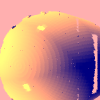
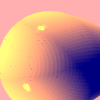
3ddda finaly works

diff --git a/src/Acc/VoxelPathIterator.java b/src/Acc/VoxelPathIterator.java
@@ -14,8 +14,9 @@ public class VoxelPathIterator implements Iterator<Voxel>{
     Ray ray ; 
     double tx , ty , tz ; 
     Double3 delta  ; 
-    Point currentIndex ; 
-    
+    boolean haveFirst = false ;
+    boolean first = true ;  
+    int i , j , k ; 
     VoxelPathIterator(Grid grid , Ray ray ){ //set up ;)
         this.grid = grid ; 
         this.ray = ray ; 
@@ -26,91 +27,92 @@ public class VoxelPathIterator implements Iterator<Voxel>{
             , Math.abs(grid.getLength() / ray.getDir().getZ())
             );
         Double3 startIndex = grid.findFirstVoxel(ray);
-        this.currentIndex = grid.fromIndex(startIndex) ; 
+        if(startIndex == null ){
+            return ; 
+        }
+        this.haveFirst = true ;
+        i = (int)startIndex.d1 ;
+        j = (int)startIndex.d2 ;
+        k=(int)startIndex.d3 ; 
+
         Vector dir = ray.getDir();
         double dirX = ray.getDir().getX() , dirY = dir.getY() , dirZ = dir.getZ() ;  
-        this.tx = dirX < 0 ?  startIndex.d1 * grid.getLength() -rayOrigin.getX() 
+        this.tx = dirX == 0 ? Double.POSITIVE_INFINITY  :
+        dirX < 0 ?  startIndex.d1 * grid.getLength() -rayOrigin.getX() 
          :  (startIndex.d1+1) * grid.getLength() -rayOrigin.getX() ;
-         this.ty = dirY < 0 ?  startIndex.d2 * grid.getLength() -rayOrigin.getY() 
+         this.ty = dirY == 0 ? Double.POSITIVE_INFINITY :  
+         dirY < 0 ?  startIndex.d2 * grid.getLength() -rayOrigin.getY() 
          :  (startIndex.d2+1) * grid.getLength() -rayOrigin.getY() ;
-         this.tz = dirZ < 0 ?  startIndex.d3 * grid.getLength() -rayOrigin.getZ() 
+         this.tz =dirZ == 0 ?  Double.POSITIVE_INFINITY :
+          dirZ < 0 ?  startIndex.d3 * grid.getLength() -rayOrigin.getZ() 
          :  (startIndex.d3+1) * grid.getLength() -rayOrigin.getZ() ;
-        this.tx = tx / dirX ; 
+        
+         this.tx = tx / dirX ; 
         this.ty = ty / dirY ; 
         this.tz = tz / dirZ  ;   
+        
 
 
 
     }
-
-
-    private Voxel UpdateCurrent(double currentIndexXtmp , double currentIndexYtmp, double currentIndexZtmp ){
-        Double3 inx = grid.toIndex(this.currentIndex); 
-        if(inx == null){
-            return null ;
-        }
-        Voxel vx = grid.getVoxel(inx) ;
-         currentIndex = new Point(currentIndexXtmp,currentIndexYtmp,currentIndexZtmp);
-   
-        return vx;
-    }
-
-
 
     @Override
     public boolean hasNext() {
-        if(currentIndex == null){
+        if(!this.haveFirst){
             return false ;
-        } 
-        Point min = grid.getMin() , max = grid.getMax() ; 
+        }
+        int size = grid.getSize() ; 
         return !(
-        currentIndex.getX() < min.getX() || 
-        currentIndex.getX() > max.getX() || 
-        currentIndex.getZ()< min.getZ() || 
-        currentIndex.getZ()  > max.getZ() || 
-        currentIndex.getY() < min.getY() || 
-        currentIndex.getY() > max.getY() );
+            k < 0 || k >= size || 
+            i < 0 || i >= size ||
+            j< 0 || j >= size );
     }
 
     @Override
     public Voxel next() {
-        Point min = grid.getMin() , max = grid.getMax() ; 
-        double currentIndexXtmp = currentIndex.getX(),currentIndexYtmp=currentIndex.getY() ,currentIndexZtmp = currentIndex.getZ() ;
-			
+        if(first){
+            first = false ;
+            return grid.getVoxel(i,j,k);
+        }
+		int size = grid.getSize() ; 
         if (tx < ty) {
 				if (tx < tz) {
-					tx += delta.d1;
-					currentIndexXtmp += ray.getDir().getX() < 0 ? -1 : 1;
-					if (currentIndexXtmp < min.getX() || currentIndexXtmp > max.getX() ){
-                        return UpdateCurrent(currentIndexXtmp, currentIndexYtmp, currentIndexZtmp);
+                    int stepX =  ray.getDir().getX() < 0 ? -1 : 1;
+                    this.i  +=stepX ; 
+                    if(i < 0 || i >= size ){
+                        return null ;
                     }
+                    tx += delta.d1;
 				} else {
-					tz += delta.d3;
-					currentIndexZtmp += ray.getDir().getZ() < 0 ? -1 : 1;
-					if (currentIndexZtmp < min.getZ() || currentIndexZtmp > max.getZ()){
-                        return UpdateCurrent(currentIndexXtmp, currentIndexYtmp, currentIndexZtmp);
+                    int stepZ =  ray.getDir().getZ() < 0 ? -1 : 1;
+                    k += stepZ ; 
+                    if(k < 0 || k >= size ){
+                        return null ;
                     }
+					tz += delta.d3;
 				}
 			} 
             
         else {
 			if (ty< tz) {
-				ty += delta.d2;
-				currentIndexYtmp += ray.getDir().getY() < 0 ? -1 : 1;
-				if (currentIndexYtmp < min.getY() || currentIndexYtmp > max.getY()){
-                    return UpdateCurrent(currentIndexXtmp, currentIndexYtmp, currentIndexZtmp);
+                int stepY = ray.getDir().getY() < 0 ? -1 : 1;
+                j += stepY ; 
+				if(j< 0 || j >= size ){
+                    return null;
                 }
+                ty += delta.d2;
 			} 
             else {
-				tz  += delta.d3;
-				currentIndexZtmp+= ray.getDir().getZ() < 0 ? -1 : 1;
-                if (currentIndexZtmp < min.getZ() || currentIndexZtmp > max.getZ()){
-                    return UpdateCurrent(currentIndexXtmp, currentIndexYtmp, currentIndexZtmp);
+                int stepZ =  ray.getDir().getZ() < 0 ? -1 : 1;
+                k += stepZ ; 
+                if(k < 0 || k >= size ){
+                    return null;
                 }
+                tz += delta.d3;
 			}
 		}
 
-        return UpdateCurrent(currentIndexXtmp, currentIndexYtmp, currentIndexZtmp );
+        return grid.getVoxel(i,j,k) ;
 
       
     }

diff --git a/src/Acc/Grid.java b/src/Acc/Grid.java
@@ -30,45 +30,45 @@ public class Grid {
     //TESTED 
     public Grid(List<Voxelable> objects ,int size ){
         MaxMin minMaxTotal =null  ; 
+        double maxXT = 0  , maxYT =0  , maxZT =0  , minXT =0  , minYT =0 , minZT = 0 ; 
+
         for(Voxelable object : objects){
                 MaxMin  minMaxLocal = object.getMaxMin() ; 
                 if(minMaxTotal == null){   
-                    minMaxTotal = minMaxLocal ; 
+                    Point min = minMaxLocal.min , max = minMaxLocal.max ;
+                    minXT = min.getX() ; 
+                    minYT = min.getY() ; 
+                    minZT = min.getZ();
+                    maxXT = max.getX() ; 
+                    maxYT = max.getY() ; 
+                    maxZT = max.getZ() ;  
+                    continue ;
                 }
                 else{
-                    double minx =minMaxTotal.min.getX()  , miny = minMaxTotal.min.getY() ,minz = minMaxTotal.min.getZ() ,
-                     maxx = minMaxTotal.max.getX() , maxy = minMaxTotal.max.getY() , maxz = minMaxTotal.max.getZ() ; 
-                    boolean changed =false ;  
-                    if(minMaxLocal.max.getX() > minMaxTotal.max.getX()){
-                        maxx = minMaxLocal.max.getX() ; 
-                        changed = true ;    
+                   
+                  
+                    if(minMaxLocal.max.getX() > maxXT){
+                        maxXT = minMaxLocal.max.getX() ;   
                     }
-                    if(minMaxLocal.max.getY() > minMaxTotal.max.getY()){
-                        maxy = minMaxLocal.max.getY() ; 
-                        changed = true ;    
+                    if(minMaxLocal.max.getY() > maxYT){
+                        maxYT = minMaxLocal.max.getY() ;     
                     }
-                    if(minMaxLocal.max.getZ() > minMaxTotal.max.getZ()){
-                        maxz = minMaxLocal.max.getZ() ; 
-                        changed = true ;    
+                    if(minMaxLocal.max.getZ() >maxZT){
+                        maxZT = minMaxLocal.max.getZ() ;  
                     }
-                    if(minMaxLocal.min.getX() < minMaxTotal.min.getX()){
-                        minx = minMaxLocal.min.getX() ; 
-                        changed = true ;    
+                    if(minMaxLocal.min.getX() < minXT){
+                        minXT = minMaxLocal.min.getX() ;    
                     }
-                    if(minMaxLocal.min.getY() < minMaxTotal.min.getY()){
-                        miny = minMaxLocal.min.getY() ; 
-                        changed = true ;    
+                    if(minMaxLocal.min.getY() < minYT){
+                        minYT = minMaxLocal.min.getY() ;   
                     }
-                    if(minMaxLocal.min.getZ() < minMaxTotal.min.getZ()){
-                        minz= minMaxLocal.min.getZ() ; 
-                        changed = true ;    
+                    if(minMaxLocal.min.getZ() <minZT){
+                        minZT= minMaxLocal.min.getZ() ; 
                     }
-                    if(changed){
-                        minMaxTotal = new MaxMin(minx ,miny ,minz ,maxx, maxy , maxz );
-                    }
+           
                 }
             }
-         
+    minMaxTotal = new MaxMin(minXT ,minYT ,minZT ,maxXT, maxYT , maxZT );
         if(minMaxTotal == null){
             throw new IllegalAccessError("cant create grid");  
         }

diff --git a/src/unittests/AccTests/AccTest.java b/src/unittests/AccTests/AccTest.java
@@ -17,6 +17,8 @@ import static org.junit.jupiter.api.Assertions.assertTrue;
 
 import java.io.FileNotFoundException;
 import java.io.IOException;
+import java.time.Duration;
+import java.time.Instant;
 import java.util.List;
 
 import com.mokiat.data.front.parser.OBJModel;
@@ -302,7 +304,38 @@ public class AccTest {
 
 	}
 
+	@Test
+	public void MonsterFace() throws FileNotFoundException, IOException {
+		Instant start = Instant.now();
+			Scene scene1 = new Scene("Test scene").setBg(new Color(255,255,255));
+			Camera camera1 = new Camera(new Point(50, -50, 1000), new Vector(0, 0, -1), new Vector(0, 1, 0)) //
+					.setVPSize(150, 150) //
+					.setVPDistance(350);
+			scene1.lights.add(new PointLight(new Point(20, -30, 20),new Color(555,555,0)).setKL(0.001).setKQ(0.0002));
+			ImageWriter imageWriter = new ImageWriter("Porche", 100, 100);
+			ObjParser modelObjParser = new ObjParser("/Users/idang/Downloads/Porsche_911_GT2.obj") ;
+			ObjParserModel obj = modelObjParser.getObjParserModel().scale(100).rotate(30, new Vector(0,1,0));
+			scene1.geometries.add(obj.getRandomColoredTriangles(new Double3(0.5), new Double3(0.5), new Double3(0.3),new Double3(0.9), 300));
+			RayTracerBasic trc = new RayTracerBasic(scene1); 
+			//System.out.println("try 1: ");
+	
+			//System.out.println(trc.getGrid().getSize());
+	
+			// CODE HERE        
 
+		
+
+			camera1 =camera1.setWriter(imageWriter) //
+			.setRayTrace(trc) //
+			.renderImage(); 
+			Instant finish = Instant.now();
+			long timeElapsed = Duration.between(start, finish).toSeconds();
+			System.out.println(timeElapsed);
+			camera1.printGrid(5,  Color.BLACK);
+			camera1.writeToImage(); 
+
+		}
+      
 
 	
 

diff --git a/src/geometries/Triangle.java b/src/geometries/Triangle.java
@@ -39,20 +39,15 @@ try{
         Point C = this.vertices.get(2);     
         Vector CA = C.subtract(A);
         Vector BA = B.subtract(A);
-        Vector PA;
-        PA = P.subtract(A);
-        double capArea = CA.crossProduct(PA).lengthSquared();
+        Vector PA =P.subtract(A);
         double abcArea = CA.crossProduct(BA).lengthSquared();
-        double abpArea = BA.crossProduct(PA).lengthSquared();
-        double bcpArea;
-        bcpArea = (B.subtract(P)).crossProduct(C.subtract(P)).lengthSquared(); 
-        double uSquared = Util.alignZero(capArea / abcArea)  ; 
-        double vSquared = Util.alignZero(abpArea / abcArea )   ; 
-        double wSqaured =  Util.alignZero(bcpArea / abcArea)    ; 
+        double uSquared = Util.alignZero( CA.crossProduct(PA).lengthSquared() / abcArea)  ; 
+        double vSquared = Util.alignZero(BA.crossProduct(PA).lengthSquared() / abcArea )   ; 
+        double wSqaured =  Util.alignZero((B.subtract(P)).crossProduct(C.subtract(P)).lengthSquared() / abcArea)    ; 
         double u = Math.sqrt(uSquared);
         double v = Math.sqrt(vSquared);
         double w = Math.sqrt(wSqaured);
-        if( Util.alignZero(u-1) < 0  && Util.alignZero(v-1)< 0 &&Util.alignZero(w-1)< 0 && !Util.isZero(u) && !Util.isZero(v)  && !Util.isZero(w) &&  Util.isZero(w+v+u-1) ){
+        if( Util.alignZero(u-1) < 0  && Util.alignZero(v-1)< 0 &&Util.alignZero(w-1)< 0 &&  Util.isZero(w+v+u-1) ){
             GeoPoint pt = new Intersectable.GeoPoint(P,this);
             if(Util.alignZero(pt.point.distanceSquared(ray.getP0()) -max * max  ) <= 0 ){
                 return List.of(pt) ; 

diff --git a/src/unittests/renderer/ModelTests.java b/src/unittests/renderer/ModelTests.java
@@ -271,12 +271,12 @@ public void RifleModelTest() throws WFException, IOException {
         scene1.lights.add(new PointLight(new Point(20, -30, 20),new Color(555,555,0)).setKL(0.001).setKQ(0.0002));
         scene1.lights.add(new DirectionalLight(spCL, new Vector(1, -4, -0.5)));
         scene1.lights.add(new DirectionalLight(spCL, new Vector(1, 1, -0.5)));
-        ImageWriter imageWriter = new ImageWriter("RIFLEAFTER3DDDAAFT", 100, 100);
+        ImageWriter imageWriter = new ImageWriter("RIFLEAFTER3DDDAAFT", 1000, 1000);
         ObjParser modelObjParser = new ObjParser("/Users/idang/Downloads/capsule.obj") ;
         scene1.add(modelObjParser.getObjParserModel().scale(200).rotate(-30,new Vector(0,1,0)).changeStartingPoint(new Point(100,-100,0)).getShapes().stream().map((e)->(Intersectable)e.setEmisson(new Color(BLUE).reduce(2)) //
         .setMaterial(new Material().setkD(new Double3(0.5)).setkS(new Double3(0.5)).setnShininess(300))).toArray(Intersectable[]::new));
         System.out.println("hiii");
-        RayTracerBasic trc = new RayTracerBasic(scene1,true).setSize(10) ;
+        RayTracerBasic trc = new RayTracerBasic(scene1,true).setSize(50) ;
         System.out.println(trc.getGrid().getMax());
         
         camera1.setWriter(imageWriter) //

diff --git a/src/renderer/RayTracerBasic.java b/src/renderer/RayTracerBasic.java
@@ -220,10 +220,13 @@ public class RayTracerBasic extends RayTracerBase {
     //TO DO  : TEST
     private GeoPoint findClosestIntersectionFastVoxels(Ray ray) {
       for(Voxel vox:getGrid().getPath(ray)){
+          if(vox!=null){
             List<GeoPoint> points = vox.collisoned(ray); 
             if(points != null ){
                 return ray.findClosestGeoPoint(points);
           }
+          }
+            
       }
       return null ; 
     }

diff --git a/src/renderer/ImageWriter.java b/src/renderer/ImageWriter.java
@@ -88,6 +88,7 @@ public class ImageWriter {
 			Graphics g = image.getGraphics();
 			//set font
 			g.setFont(g.getFont().deriveFont(25f));
+			g.setColor(java.awt.Color.RED);
 			g.drawString(text, (int)cords.getX(),(int)cords.getY());
 			g.dispose();
 			//write the image
